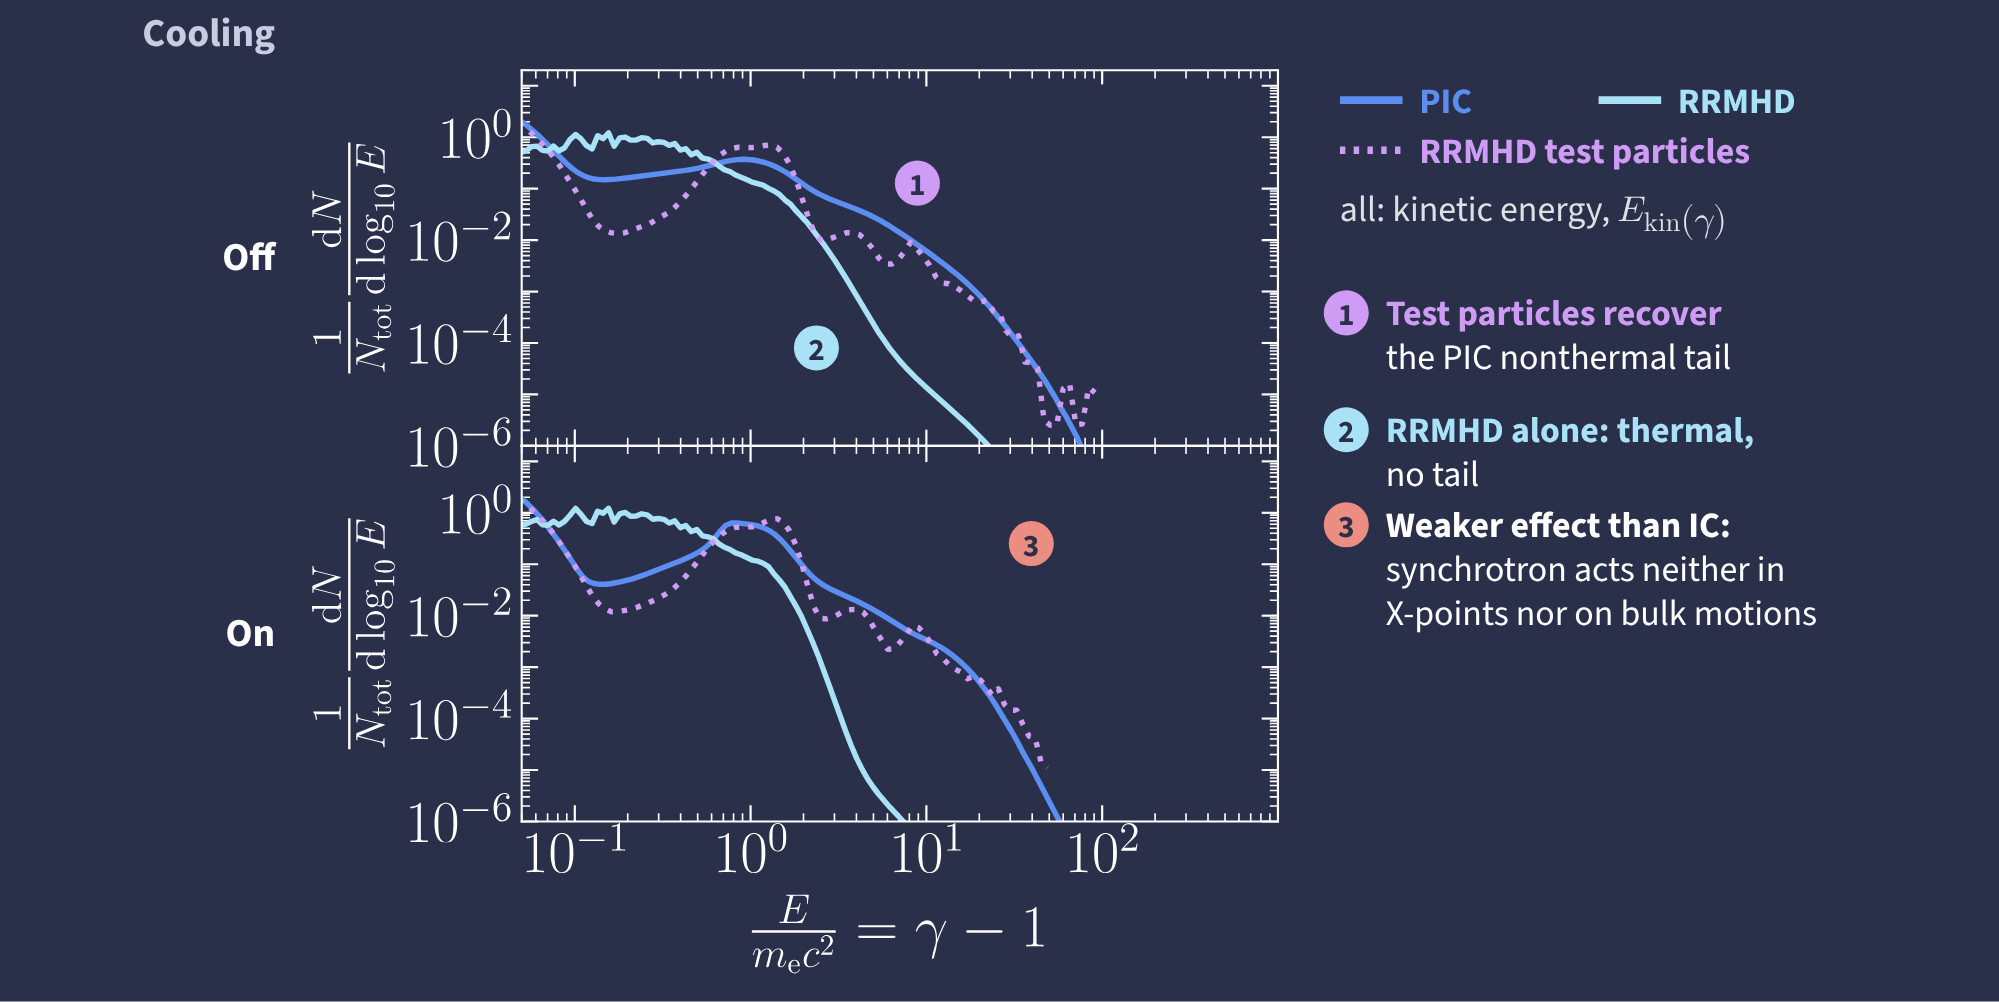
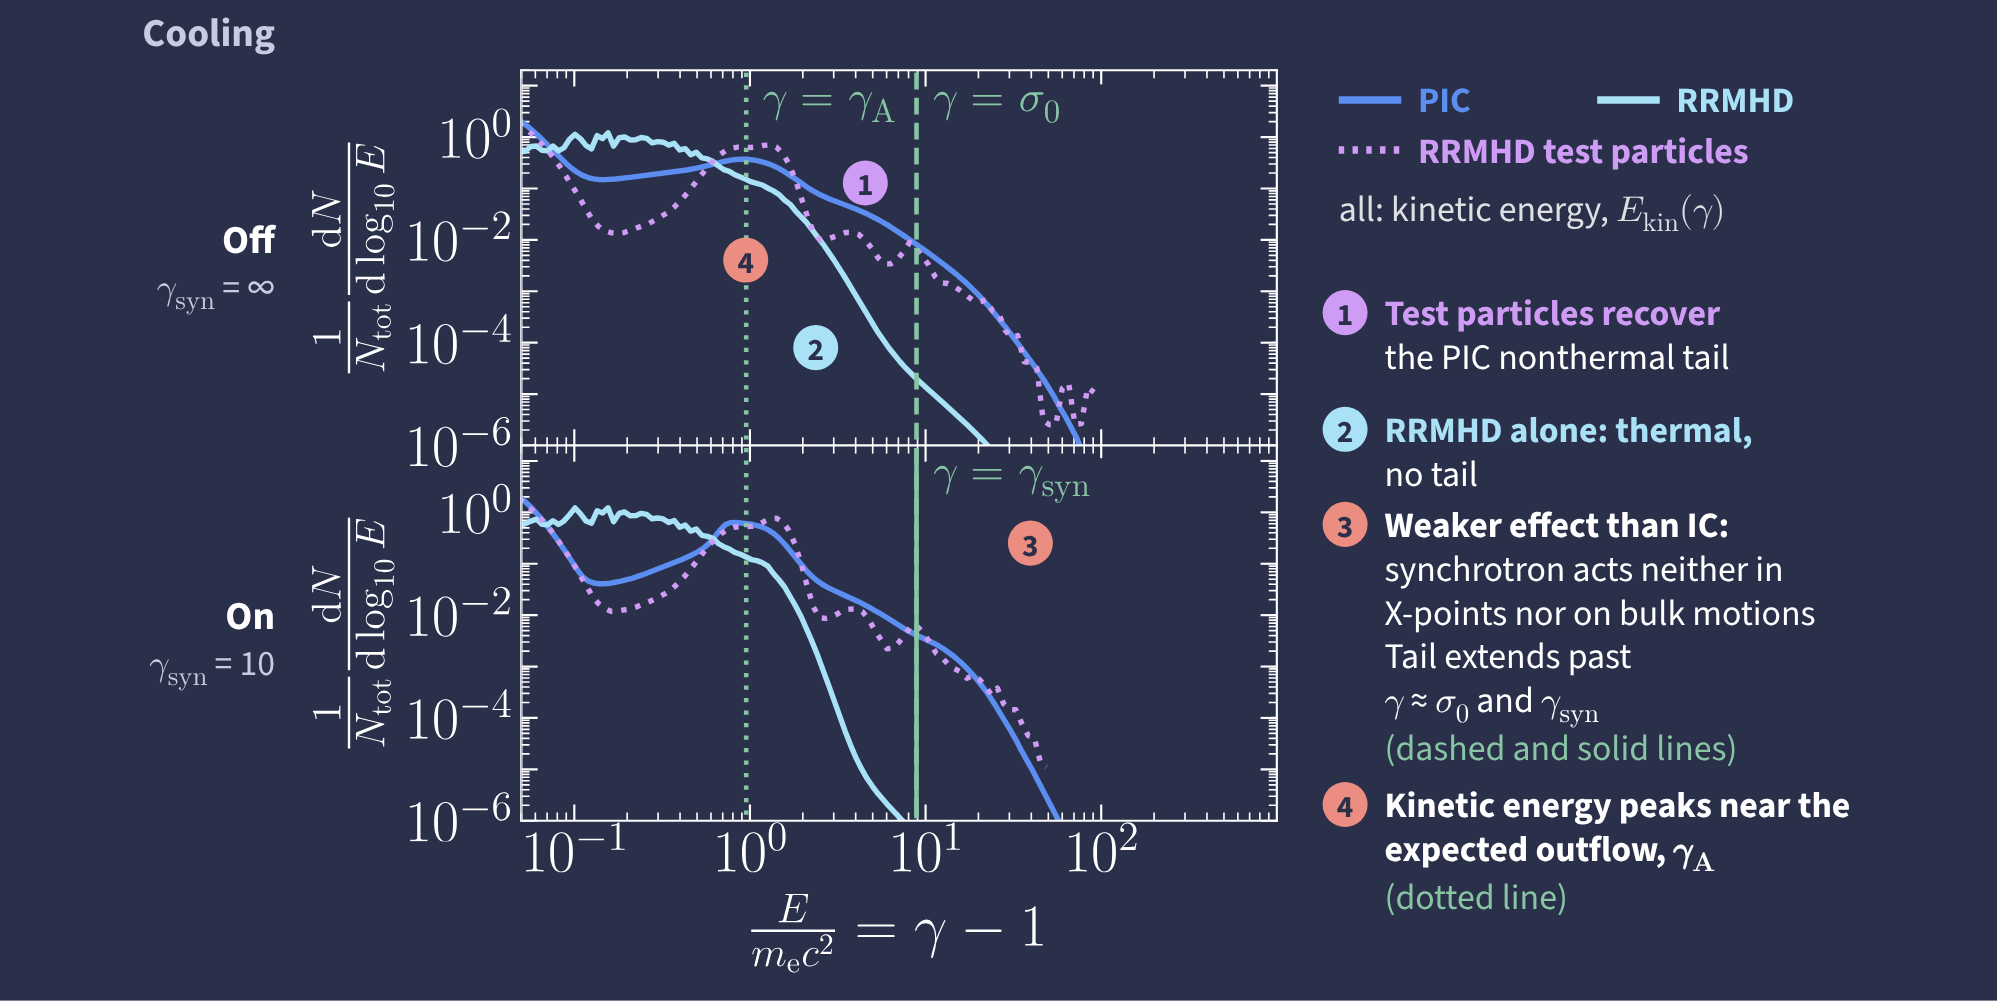
spectra figures

diff --git a/making-reconnection-cooler.md b/making-reconnection-cooler.md
@@ -186,7 +186,11 @@ show_tile: false
 	<div data-level="astronomer" data-default><p>In Paper II, led by Ma&euml;lle Magnan, we extend our model to <strong>synchrotron cooling</strong>, the radiation from electrons gyrating relativistically around magnetic field lines. As for IC, balancing the reconnection electric field against synchrotron losses defines a characteristic Lorentz factor \(\gamma_{\rm sync}\) that sets the cooling strength. The addition of <strong>test particles</strong>, which are pushed by the RRMHD fields without feeding back on them, is able to capture the kinetic non-thermal tail.</p></div>
 	<div data-level="plasma" hidden><p>In Paper II, led by Ma&euml;lle Magnan, we extend our model to <strong>synchrotron cooling</strong>. Balancing the reconnection electric field against synchrotron losses defines \(\gamma_{\rm sync}\), analogous to \(\gamma_{\rm rad}\). The addition of <strong>test particles</strong> pushed by the RRMHD fields is able to capture the kinetic non-thermal tail.</p></div>
 </div>
-<figure class="paper-figure plain">
+<figure class="paper-figure plain" data-show-for="astronomer">
+	<img src="{{ site.baseurl }}/assets/images/plasma/mrc-sync-astronomer.png" alt="Kinetic energy spectra with synchrotron cooling off and on: PIC, RRMHD, and test particles pushed through the RRMHD fields, which recover the PIC nonthermal tail" />
+	<figcaption>Adapted from Paper II (M. Magnan et al., in prep.).</figcaption>
+</figure>
+<figure class="paper-figure plain" data-show-for="plasma" hidden>
 	<img src="{{ site.baseurl }}/assets/images/plasma/mrc-sync-plasma.png" alt="Kinetic energy spectra with synchrotron cooling off and on: PIC, RRMHD, and test particles pushed through the RRMHD fields, which recover the PIC nonthermal tail" />
 	<figcaption>Adapted from Paper II (M. Magnan et al., in prep.).</figcaption>
 </figure>
